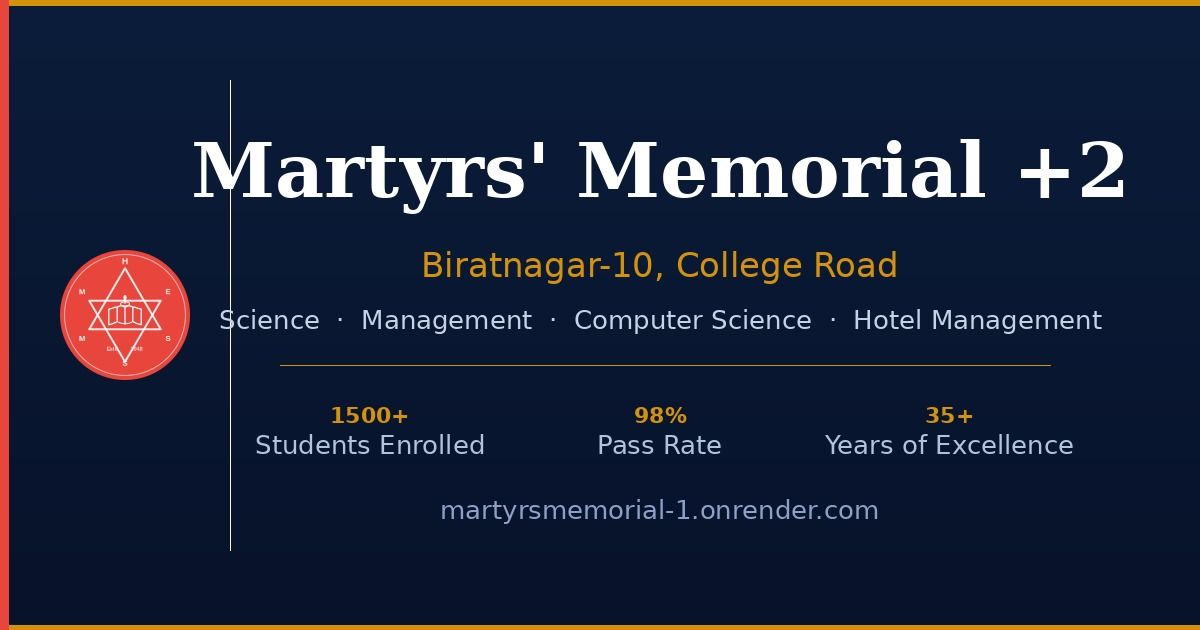
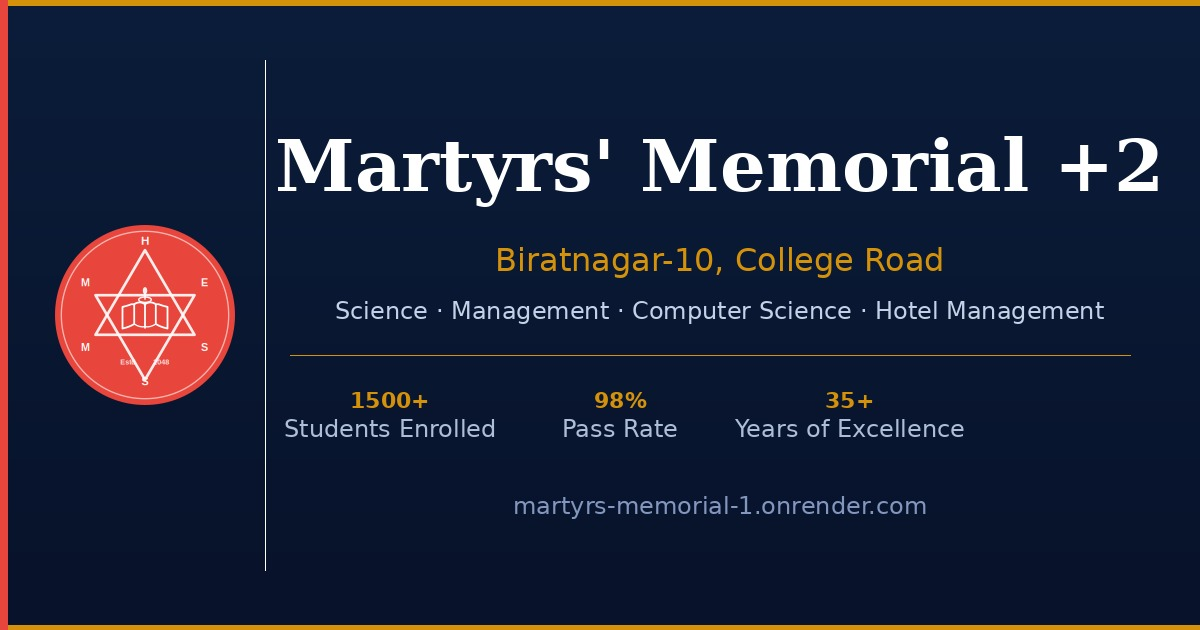
updated base and uploaded pictures

diff --git a/templates/layouts/base.html b/templates/layouts/base.html
@@ -19,9 +19,9 @@
   <meta property="og:title"       content="{% block og_title %}{{ school_name }} — {{ school_tagline }}{% endblock %}">
   <meta property="og:description" content="{% block og_description %}Premier +2 college in Biratnagar offering Science, Management & Computer Science. 98% pass rate. Admissions open for 2083.{% endblock %}">
   <meta property="og:url"         content="{{ request.url }}">
-  <meta property="og:image"       content="{% block og_image %}{{ url_for('static', filename='img/og-cover.jpg', _external=True) }}{% endblock %}">
-  <meta property="og:image:width"  content="1200">
-  <meta property="og:image:height" content="630">
+  <meta property="og:image"       content="{% block og_image %}{{ url_for('static', filename='img/og-cover-square.jpg', _external=True) }}{% endblock %}">
+  <meta property="og:image:width"  content="600">
+  <meta property="og:image:height" content="600">
   <meta property="og:image:alt"   content="{{ school_name }} — {{ school_tagline }}">
   <meta property="og:locale"      content="en_NP">
 
